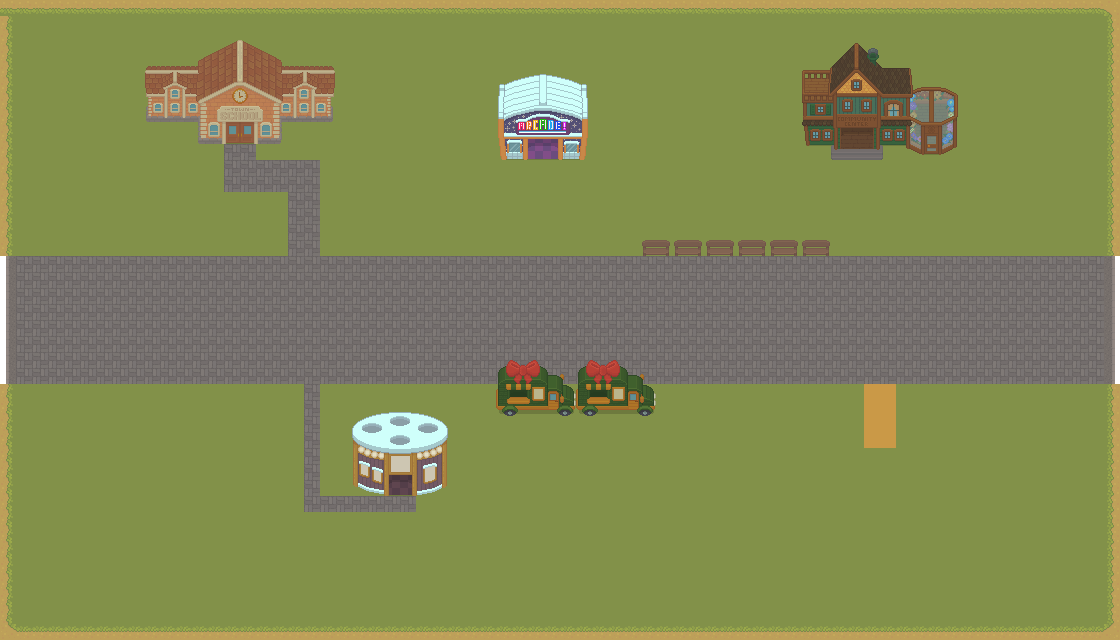
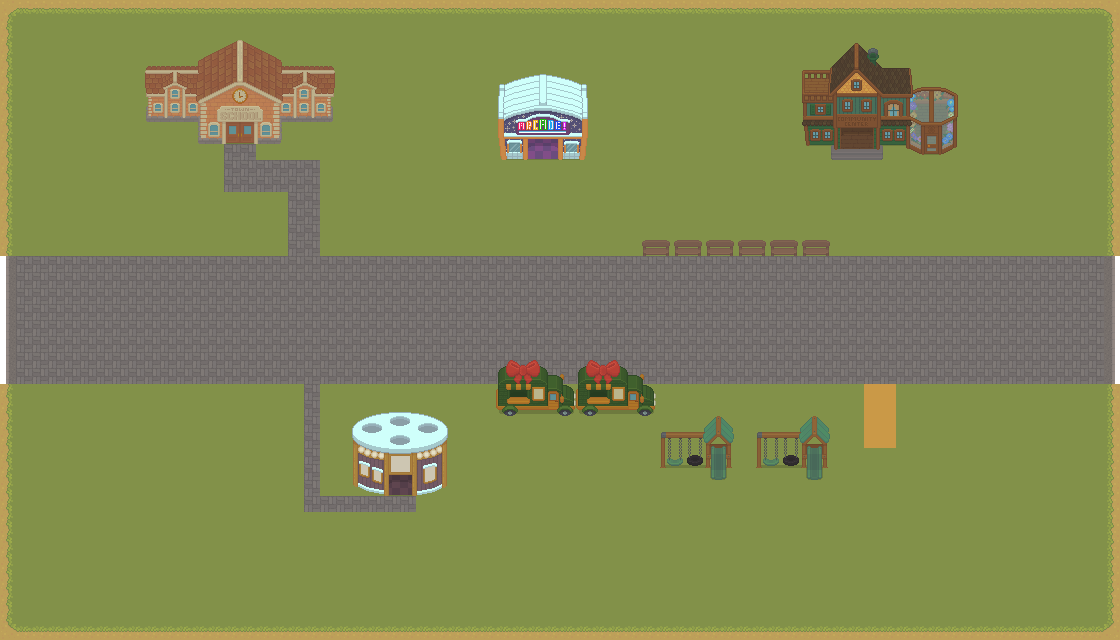
맵확대 200% 로 구현 성공

Changed region(s): [[0.5625, 0.6562, 0.75, 0.75], [0.0, 0.0, 0.0312, 0.0312]]

diff --git a/src/scenes/Game.ts b/src/scenes/Game.ts
@@ -21,6 +21,7 @@ import { ItemType } from "../types/Items";
 import store from "../stores";
 import { setFocused, setShowChat } from "../stores/ChatStore";
 import { NavKeys, Keyboard } from "../types/KeyboardState";
+import { Grass } from "@mui/icons-material";
 
 export default class Game extends Phaser.Scene {
   network!: Network;
@@ -77,33 +78,26 @@ export default class Game extends Phaser.Scene {
 
     this.map = this.make.tilemap({ key: "tilemap" });
 
-    const GroundImage = this.map.addTilesetImage("tiles", "tiles_wall");
+    const TileImage = this.map.addTilesetImage("tiles", "tiles");
 
     const BuildingImage = this.map.addTilesetImage("buildings", "buildings");
 
     const InteriorImage = this.map.addTilesetImage("interior", "interior");
-    // const DollImage = this.map.addTilesetImage("doll", "interior");
-
-    const TestImage = this.map.addTilesetImage("bench", "bench");
 
     // debugDraw(groundLayer, this)
-    const GroundLayer = this.map.createLayer("grass", GroundImage);
+    const GrassLayer = this.map.createLayer("grass", TileImage);
 
     const BuildingLayer = this.map.createLayer("buildings", BuildingImage);
 
-    const BenchLayer = this.map.createLayer("interior", InteriorImage);
+    const BenchLayer = this.map.createLayer("bench", InteriorImage);
 
-    const TestLayer = this.map.createLayer("bench", TestImage);
+    const SwingLayer = this.map.createLayer("swing", TileImage);
 
-    const DollLayer = this.map.createLayer("doll", InteriorImage);
-
-    // const SwingLayer = this.map.createLayer("swing", BenchImage);
-
-    GroundLayer.setCollisionByProperty({ collisions: true });
+    GrassLayer.setCollisionByProperty({ collisions: true });
     BuildingLayer.setCollisionByProperty({ collisions: true });
     BenchLayer.setCollisionByProperty({ collisions: true });
-    // DollLayer.setCollisionByProperty({ collisions: true });
-    // SwingLayer.setCollisionByProperty({ collisions: true });
+    SwingLayer.setCollisionByProperty({ collisions: true });
+
     // const debugGraphics = this.add.graphics().setAlpha(0.7)
     // GroundLayer.renderDebug(debugGraphics, {
     //   tileColor: null, // Color of non-colliding tiles
@@ -171,12 +165,12 @@ export default class Game extends Phaser.Scene {
 
     this.otherPlayers = this.physics.add.group({ classType: OtherPlayer });
 
-    this.cameras.main.zoom = 1.5;
+    this.cameras.main.zoom = 2;
     this.cameras.main.startFollow(this.myPlayer, true);
 
     this.physics.add.collider(
       [this.myPlayer, this.myPlayer.playerContainer],
-      GroundLayer
+      GrassLayer
     );
 
     this.physics.add.collider(
@@ -187,6 +181,11 @@ export default class Game extends Phaser.Scene {
     this.physics.add.collider(
       [this.myPlayer, this.myPlayer.playerContainer],
       BenchLayer
+    );
+
+    this.physics.add.collider(
+      [this.myPlayer, this.myPlayer.playerContainer],
+      SwingLayer
     );
 
     // this.physics.add.overlap(

diff --git a/src/scenes/Bootstrap.ts b/src/scenes/Bootstrap.ts
@@ -29,7 +29,7 @@ export default class Bootstrap extends Phaser.Scene {
 
     this.load.tilemapTiledJSON("tilemap", "assets/map/game_map.json");
 
-    this.load.spritesheet("tiles_wall", "assets/map/tiles.png", {
+    this.load.spritesheet("tiles", "assets/map/tiles.png", {
       frameWidth: 16,
       frameHeight: 16,
     });
@@ -40,11 +40,6 @@ export default class Bootstrap extends Phaser.Scene {
     });
 
     this.load.spritesheet("interior", "assets/map/interior.png", {
-      frameWidth: 16,
-      frameHeight: 16,
-    });
-
-    this.load.spritesheet("bench", "assets/map/bench.png", {
       frameWidth: 16,
       frameHeight: 16,
     });
